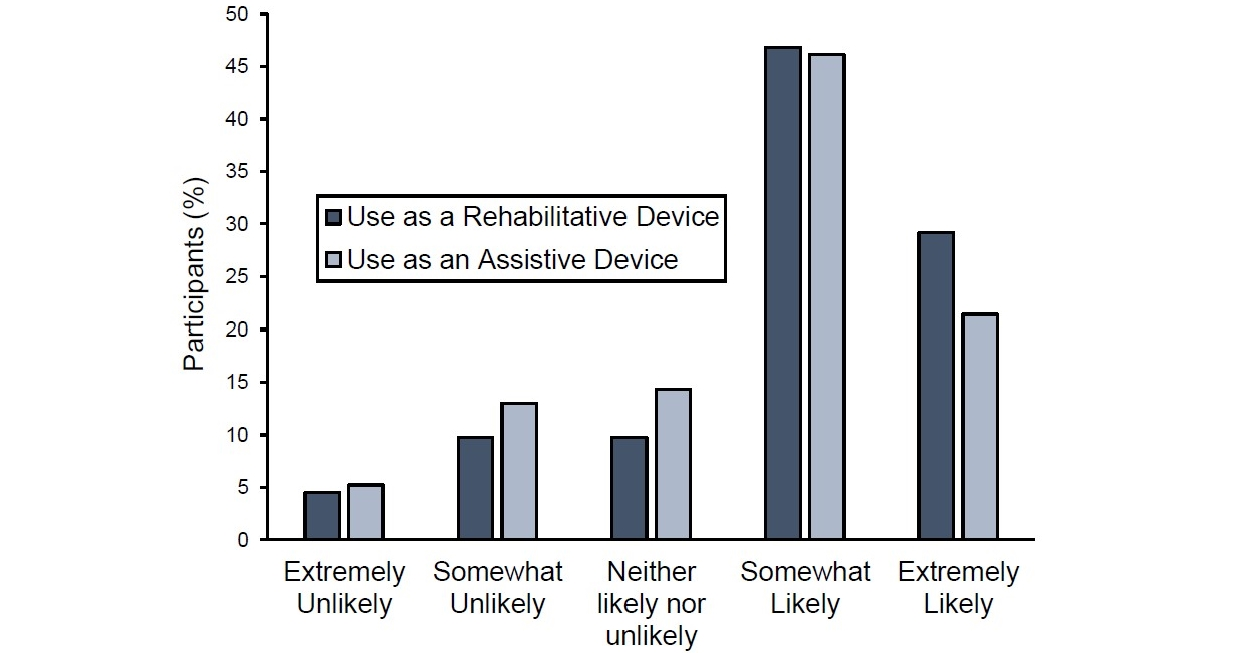
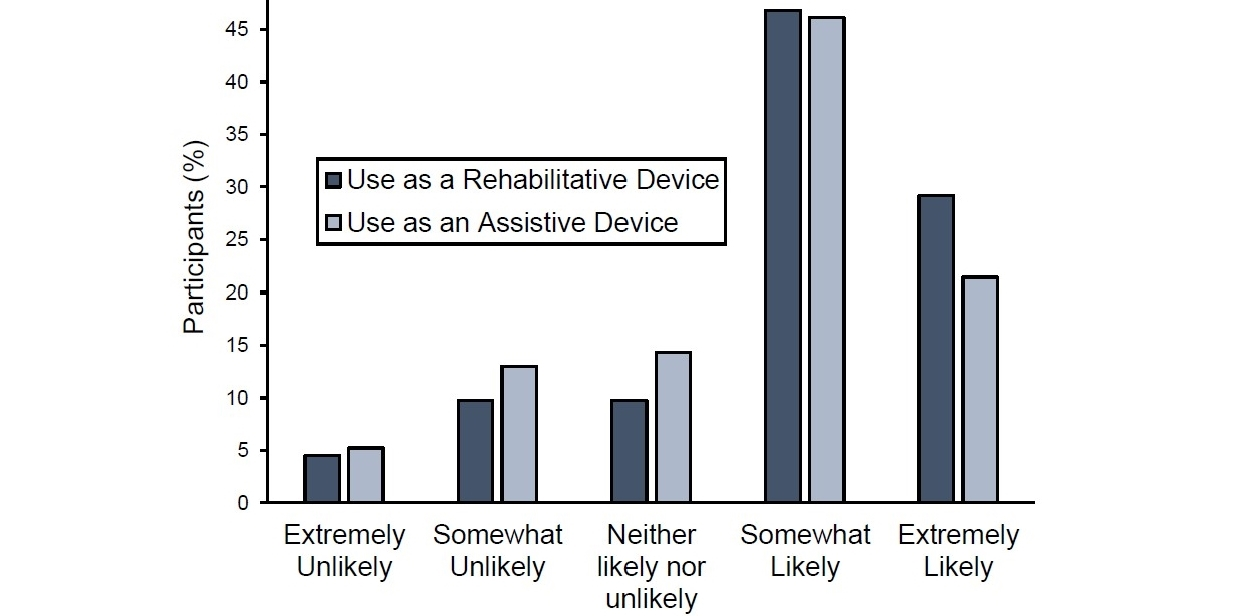
updating thumb image heights

diff --git a/_sass/pages/_research.scss b/_sass/pages/_research.scss
@@ -11,6 +11,7 @@
 	float: left;
 	width: 30%;
 	max-width: 500px;
+	max-height: 220px;
 	display: block;
 	padding-top: 2rem;
 }
@@ -18,6 +19,7 @@
 	float: left;
 	width: 30%;
 	max-width: 500px;
+	max-height: 220px;
 	display: block;
 	padding-top: 0.6rem;
 }
